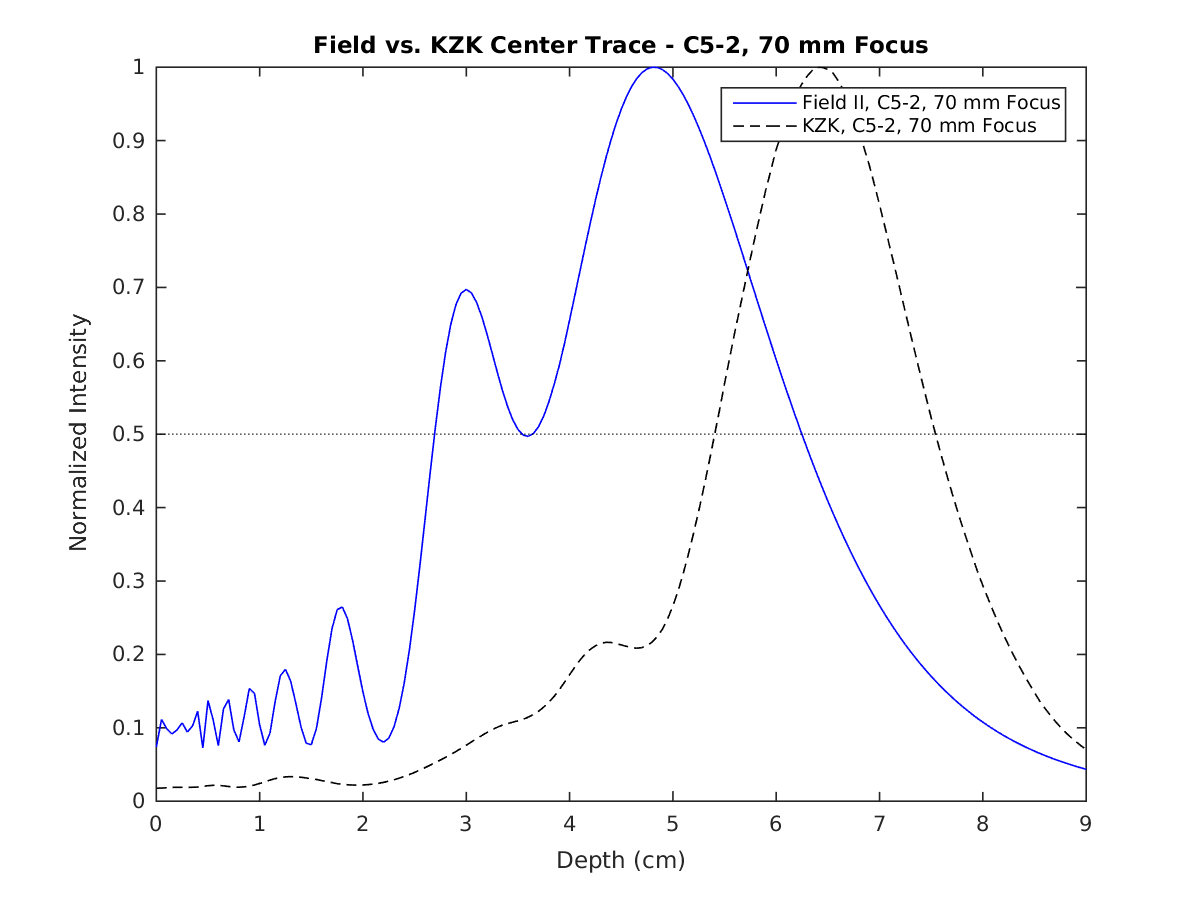
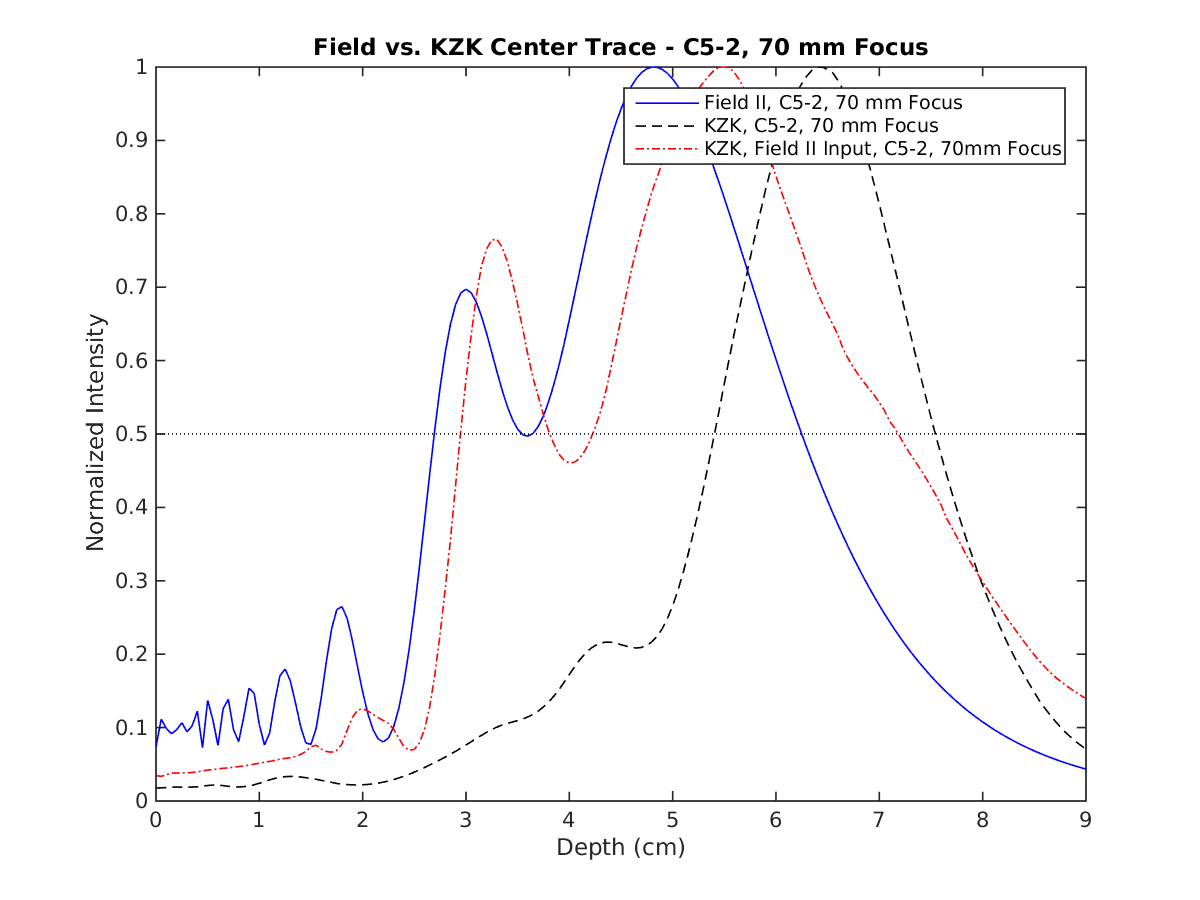
added contour + center trace plots for 70 mm linear kzk sim w/ field 2 pressure inputs

diff --git a/comparisons/focus70mm/linear_compare.m b/comparisons/focus70mm/linear_compare.m
@@ -1,6 +1,6 @@
 clear; clf;
 
-addpath ../metrics/
+addpath ../../metrics/
 
 %% Field II and KZK (linear) sim comparisons - 70 mm focus
 
@@ -50,17 +50,38 @@ fprintf(['The maximum intensity occurs at %.2f cm in elevation position, '...
          maxEle, maxLat, maxDepth)
 fprintf('\n')     
 
+% Linear KZK w/ Field II Pressure Input
+fprintf('Linear KZK w/ Field II Pressure Input:\n')
+load(['/luscinia/nl91/nonlinear_acoustic/kzk/field_ii_c52_focus70mm/'...
+      'B_0/a_0.45_B_0/c52_70mm_intensity_field_field_ii_pressure_input.mat'])
+          
+intensity_kzk_finput_70mm = permute(intensity, [3 2 1]);
+intensity_kzk_finput_70mm = intensity_kzk_finput_70mm(1:length(kzk_ele), length(kzk_lat):end, :);
+intensity_kzk_finput_70mm = intensity_kzk_finput_70mm ./ max(intensity_kzk_finput_70mm(:));
+intensity_kzk_finput_70mm_depth = kzk_depth;
+
+% Calculating location of max intensity
+[maxEle, maxLat, maxDepth] = intensitypeak(intensity_kzk_finput_70mm, kzk_ele, ...
+                                           kzk_lat, kzk_depth);
+fprintf(['The maximum intensity occurs at %.2f cm in elevation position, '...
+         '%.2f cm in lateral position, and %.2f cm in depth position.\n'],...
+         maxEle, maxLat, maxDepth)
+fprintf('\n')     
+
 figure(1)
-subplot(2, 1, 1)
+subplot(3, 1, 1)
 imagesc(squeeze(intensity_field_70mm(end, :, :))')
-subplot(2, 1, 2)
+subplot(3, 1, 2)
 imagesc(squeeze(intensity_kzk_70mm(end, :, :))')
+subplot(3, 1, 3)
+imagesc(squeeze(intensity_kzk_finput_70mm(end, :, :))')
 
 %% center trace plot
 figure(2)
 centertrace('field_kzk_centertrace_c52_70mm.png', 'Field vs. KZK Center Trace - C5-2, 70 mm Focus',...
             intensity_field_70mm, intensity_field_70mm_depth, 'Field II, C5-2, 70 mm Focus',...
-            intensity_kzk_70mm, intensity_kzk_70mm_depth, 'KZK, C5-2, 70 mm Focus')
+            intensity_kzk_70mm, intensity_kzk_70mm_depth, 'KZK, C5-2, 70 mm Focus',...
+            intensity_kzk_finput_70mm, intensity_kzk_70mm_depth, 'KZK, Field II Input, C5-2, 70mm Focus')
         
 %% KZK contour plots
 % 10 is the ASCII value for a newline. used to break subplot title string
@@ -72,7 +93,7 @@ nln = 10;
 % because Field II intensity field is maximum in 3.75 cm plane and KZK
 % intensity field is max in 6.40 cm plane.
 figure(3);
-contourplots('kzk_70mm_depth.png', ['KZK, 70 mm Focus' nln 'Depth Plane'],...
+contourplots('kzk_70mm_depth.png', ['KZK Sim' nln 'Expt. Input, 70 mm Focus' nln 'Depth Plane'],...
               intensity_kzk_70mm, kzk_ele, kzk_lat, kzk_depth, 3,...
               [76 103 129], [0 0.45 -.4 0]);
 
@@ -81,7 +102,7 @@ contourplots('kzk_70mm_depth.png', ['KZK, 70 mm Focus' nln 'Depth Plane'],...
 % because KZK intensity field is maximum in 0.00 cm plane and Field II
 % intensity field is max in 0.14 cm plane.
 figure(4);
-contourplots('kzk_70mm_lateral.png', ['KZK, 70 mm Focus' nln 'Lateral Plane'],...
+contourplots('kzk_70mm_lateral.png', ['KZK Sim' nln 'Expt. Input, 70 mm Focus' nln 'Lateral Plane'],...
              intensity_kzk_70mm, kzk_ele, kzk_lat, kzk_depth, 2,...
              [1 4 8], [-.3 0 1 9]);
 
@@ -90,7 +111,7 @@ contourplots('kzk_70mm_lateral.png', ['KZK, 70 mm Focus' nln 'Lateral Plane'],..
 % planes were chosen because both Field II and KZK intensity fields are
 % maximum in 0.00 cm plane.
 figure(5);
-contourplots('kzk_70mm_elevational.png', ['KZK, 70 mm Focus' nln 'Elevational Plane'],...
+contourplots('kzk_70mm_elevational.png', ['KZK Sim' nln 'Expt. Input, 70 mm Focus' nln 'Elevational Plane'],...
              intensity_kzk_70mm, kzk_ele, kzk_lat, kzk_depth, 1,...
              [53 57 61], [0 .6 1 9]);
          
@@ -114,4 +135,32 @@ contourplots('field2_70mm_lateral.png', ['Field II, 70 mm Focus' nln 'Lateral Pl
 figure(8);
 contourplots('field2_70mm_elevational.png', ['Field II, 70 mm Focus' nln 'Elevational Plane'],...
              intensity_field_70mm, field_ele, field_lat, field_depth, 1,...
+             [53 57 61], [0 .6 1 9]);
+         
+%% KZK, Field II pressure input, contour plots 
+% contour plot in elevation-lateral plane at various depths
+% Depth planes in 2.3 cm, 2.75 cm, and 3.2 cm planes. These planes chosen
+% because KZK intensity field is maximum in 2.3 cm plane and Field II
+% intensity field is max in 3.2 cm plane.
+figure(9);
+contourplots('kzk_f2_input_70mm_depth.png', ['KZK Sim' nln 'Field II Inputs, 70 mm Focus' nln 'Depth Plane'],...
+              intensity_kzk_finput_70mm, kzk_ele, kzk_lat, kzk_depth, 3,...
+              [76 103 129], [0 0.45 -.4 0]);
+
+% contour plot in depth-elevation plane at various lateral positions
+% Lateral planes are 0.00 cm, 0.08 cm, and 0.16 cm planes. 0.00 cm plane
+% was chosen because both KZK and Field II intensity fields were maximum at
+% 0.00 cm lateral position.
+figure(10);
+contourplots('kzk_f2_input_70mm_lateral.png', ['KZK Sim' nln 'Field II Inputs, 70 mm Focus' nln 'Lateral Plane'],...
+             intensity_kzk_finput_70mm, kzk_ele, kzk_lat, kzk_depth, 2,...
+             [1 4 8], [-.3 0 1 9]);
+
+% contour plot in depth-lateral plane at various elevational positions
+% Elevational planes are -0.14 cm, -0.06 cm, and 0.00 cm planes. These 
+% planes were chosen because KZK intensity field is maximum in -0.14 cm 
+% plane while the Field II intensity field is max in 0.00 cm plane.
+figure(11);
+contourplots('kzk_f2_input_70mm_elevational.png', ['KZK Sim' nln 'Field II Inputs, 70 mm Focus' nln 'Elevational Plane'],...
+             intensity_kzk_finput_70mm, kzk_ele, kzk_lat, kzk_depth, 1,...
              [53 57 61], [0 .6 1 9]);

diff --git a/comparisons/focus70mm/README.md b/comparisons/focus70mm/README.md
@@ -11,7 +11,9 @@ All intensity values for each simulation were normalized by dividing by the maxi
 ### Maximum Intensity
 The maximum intensity for the Field II sim occurred at 0.00 cm in elevation position, 0.14 cm in lateral position, and 3.75 cm in depth position.
 
-The maximum intensity for the linear KZK sim occured at 0.00 cm in elevation position, 0.00 cm in lateral position, and 6.40 cm in depth position.
+The maximum intensity for the linear KZK sim w/ expt. pressure inputs occured at 0.00 cm in elevation position, 0.00 cm in lateral position, and 6.40 cm in depth position.
+
+The maximum intensity for the linear KZK sim w/ Field II synthesized pressure inputs occured at 0.00 cm in elevation position, 0.00 cm in lateral position, and 5.50 cm in depth position. 
 
 ### Center Trace Plot
 The center trace plot for the two sims can be seen below.
@@ -30,9 +32,14 @@ Contour plot slices at elevational positions of -0.14 cm, -0.06 cm, and 0.00 cm 
 
 ![Elevational Plane Contour Plots, Field II Sim, 70 mm Focus](https://raw.githubusercontent.com/Ningrui-Li/nonlinear_acoustic/master/comparisons/focus70mm/field2_70mm_elevational.png)
 
- * KZK - Elevational Plane Contour Plots
+ * KZK, Expt. Inputs - Elevational Plane Contour Plots
 
-![Elevational Plane Contour Plots, Linear KZK Sim, 70 mm Focus](https://raw.githubusercontent.com/Ningrui-Li/nonlinear_acoustic/master/comparisons/focus70mm/kzk_70mm_elevational.png)
+![Elevational Plane Contour Plots, Linear KZK Sim, Expt. Inputs, 70 mm Focus](https://raw.githubusercontent.com/Ningrui-Li/nonlinear_acoustic/master/comparisons/focus70mm/kzk_70mm_elevational.png)
+
+ * KZK, Field II Inputs - Elevational Plane Contour Plots
+
+![Elevational Plane Contour Plots, Linear KZK Sim, Field II Inputs, 30 mm Focus](https://raw.githubusercontent.com/Ningrui-Li/nonlinear_acoustic/master/comparisons/focus70mm/kzk_f2_input_70mm_elevational.png)
+
 
 ##### Lateral Planes
 Contour plot slices at lateral positions of 0.00 cm, 0.06 cm, and 0.14 cm can be found below. These planes were chosen because KZK intensity field is maximum in 0.00 cm lateral position plane and Field II intensity field is max in 0.14 cm plane.
@@ -41,9 +48,13 @@ Contour plot slices at lateral positions of 0.00 cm, 0.06 cm, and 0.14 cm can be
 
 ![Lateral Plane Contour Plots, Field II Sim, 70 mm Focus](https://raw.githubusercontent.com/Ningrui-Li/nonlinear_acoustic/master/comparisons/focus70mm/field2_70mm_lateral.png)
 
- * KZK - Lateral Plane Contour Plots
+ * KZK, Expt. Inputs - Lateral Plane Contour Plots
 
 ![Lateral Plane Contour Plots, Linear KZK Sim, 70 mm Focus](https://raw.githubusercontent.com/Ningrui-Li/nonlinear_acoustic/master/comparisons/focus70mm/kzk_70mm_lateral.png)
+
+ * KZK, Field II Inputs - Lateral Plane Contour Plots
+
+![Lateral Plane Contour Plots, Linear KZK Sim, Field II Inputs, 70 mm Focus](https://raw.githubusercontent.com/Ningrui-Li/nonlinear_acoustic/master/comparisons/focus70mm/kzk_f2_input_70mm_lateral.png)
 
 ##### Depth Planes
 Contour plot slices at depth positions of 3.75 cm, 5.10 cm, and 6.40 cm can be found below. These planes were chosen because the KZK sim had maximum normalized intensity at a depth of 6.40 cm, while the Field II sim had maximum normalized intensity at a depth of 3.75 cm.
@@ -52,7 +63,10 @@ Contour plot slices at depth positions of 3.75 cm, 5.10 cm, and 6.40 cm can be f
 
 ![Depth Plane Contour Plots, Field II Sim, 70 mm Focus](https://raw.githubusercontent.com/Ningrui-Li/nonlinear_acoustic/master/comparisons/focus70mm/field2_70mm_depth.png)
 
- * KZK - Depth Plane Contour Plots
+ * KZK, Expt. Inputs - Depth Plane Contour Plots
 
 ![Depth Plane Contour Plots, Linear KZK Sim, 70 mm Focus](https://raw.githubusercontent.com/Ningrui-Li/nonlinear_acoustic/master/comparisons/focus70mm/kzk_70mm_depth.png)
 
+ * KZK, Field II Inputs - Depth Plane Contour Plots
+
+![Depth Plane Contour Plots, Linear KZK Sim, Field II Inputs, 70 mm Focus](https://raw.githubusercontent.com/Ningrui-Li/nonlinear_acoustic/master/comparisons/focus70mm/kzk_f2_input_70mm_depth.png)
